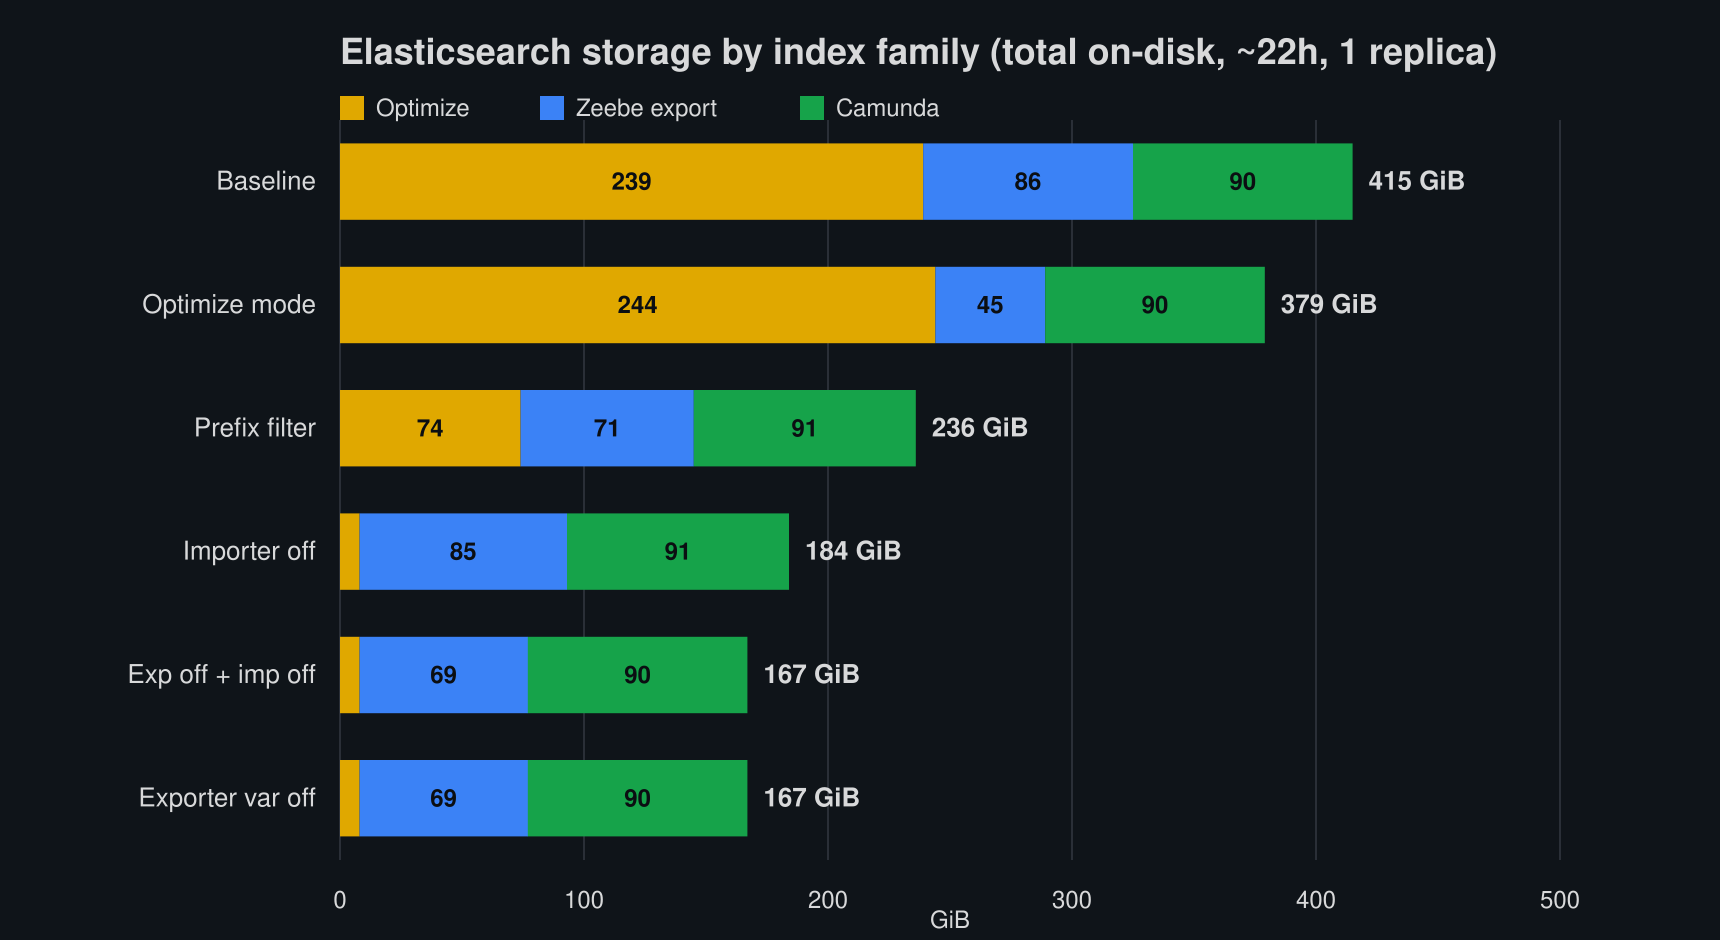
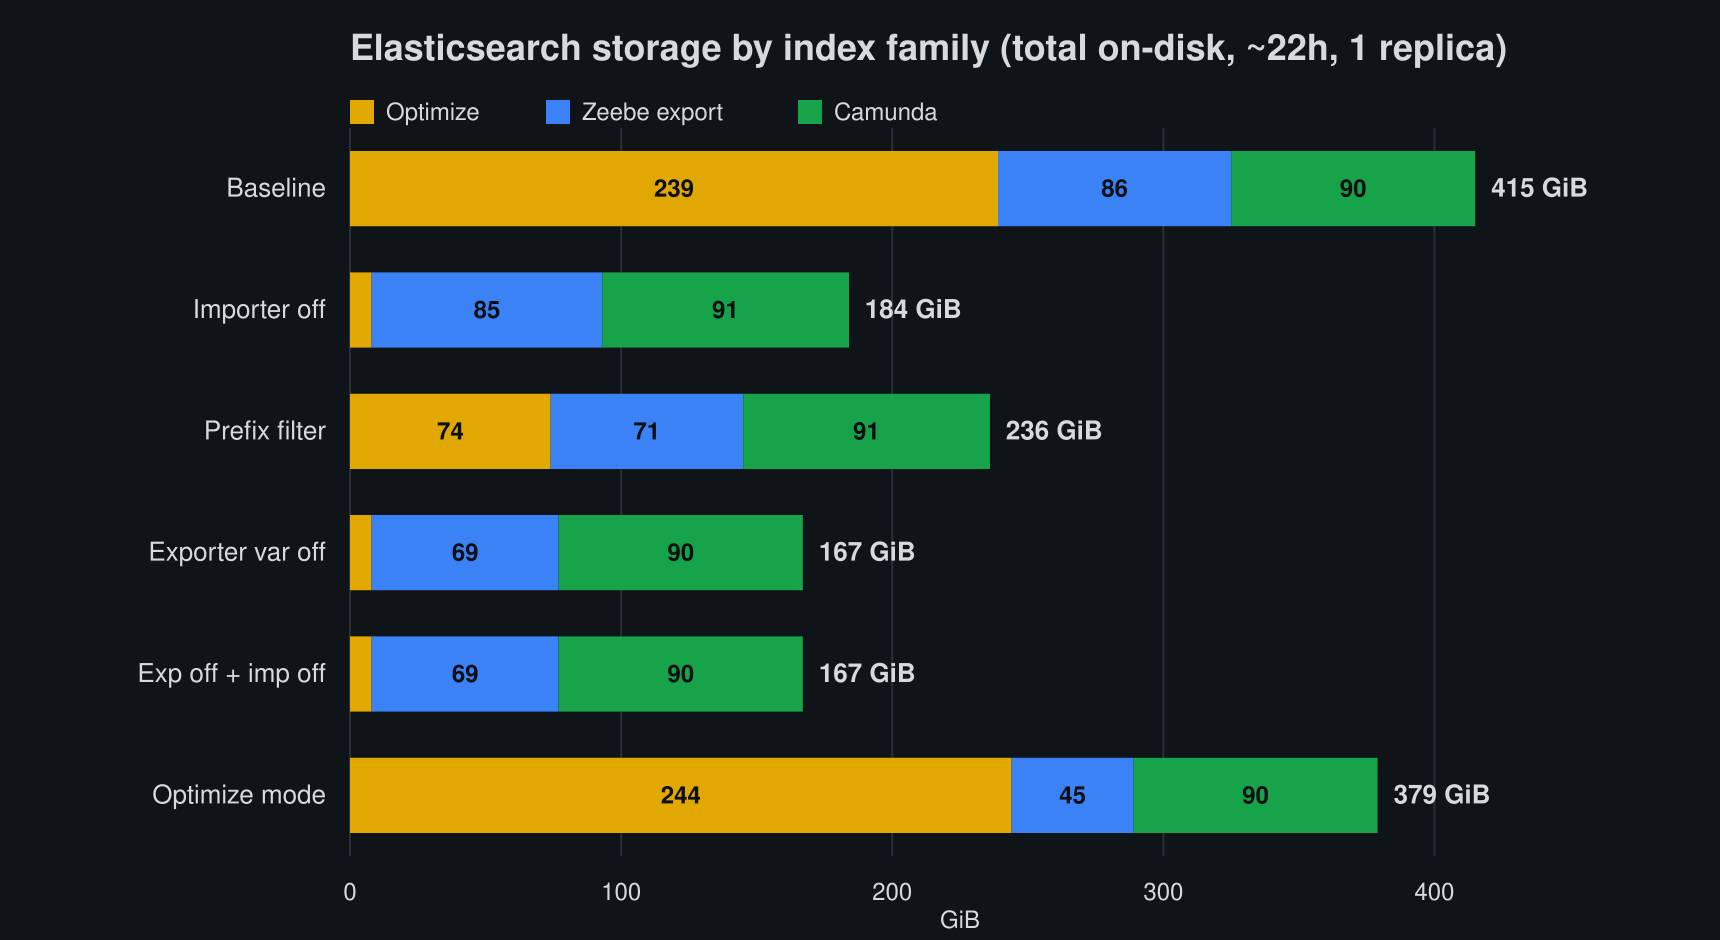
docs: drop em-dashes, unify table order with data-flow diagram, sync max throughput text
- Rewrite prose without em/en dashes (commas/colons/periods) per review.
- Reorder the storage and validation tables, and regenerate both rendered
  charts, to the data-flow diagram order (Baseline, Importer off, Prefix
  filter, Exporter var off, Exp off + imp off, Optimize mode) so every
  table and chart share one order.
- Sync the max-throughput prose to the screenshot-matched table
  (baseline 225, exporter-var-off 261, importer-off 240, optimize-mode 250).
- Add the realistic/max throughput Grafana screenshots; fix repeated
  'indicies' typo.

diff --git a/chaos-days/blog/2026-06-25-Impact-of-Optimize-Variable-Filtering/index.md b/chaos-days/blog/2026-06-25-Impact-of-Optimize-Variable-Filtering/index.md
@@ -14,18 +14,19 @@ authors:
 ---
 
 <!--
-Charts: storage-by-family.png and es-cpu-by-config.png are rendered from measured data (committed).
-Still TODO — capture from Grafana before publishing: real-general.png, max-general.png, max-throughput.png
-(dashboard overviews + throughput-over-time, which show run-to-run variance naturally).
+Charts: storage-by-family.png and es-cpu-by-config.png are rendered from measured data (committed,
+in the same order as the data-flow diagram). Throughput screenshots (realistic-throughput.png,
+max-throughput.png) added from Grafana. Still TODO before publishing: real-general.png, max-general.png
+dashboard overviews.
 -->
 
 # Chaos Day Summary
 
-In a [previous Chaos Day](https://camunda.github.io/zeebe-chaos/2026/06/10/Impact-of-Optimize-on-Camunda/) we measured what Optimize costs a cluster: at a realistic workload it drove **3.4x higher Elasticsearch (ES) CPU** and **~4x more ES disk** than running without it. That post ended with an open question — *can variable handling be tuned to reduce the impact?* This Chaos Day answers it.
+In a [previous Chaos Day](https://camunda.github.io/zeebe-chaos/2026/06/10/Impact-of-Optimize-on-Camunda/) we measured what Optimize costs a cluster: at a realistic workload it drove **3.4x higher Elasticsearch (ES) CPU** and **~4x more ES disk** than running without it. That post ended with an open question: *can variable handling be tuned to reduce the impact?* This Chaos Day answers it.
 
-We ran **twelve** load tests on Camunda 8.9.9 — six variable-filtering configurations, each at both a **realistic** and a **max** workload — and compared throughput, CPU, memory, and ES disk across all of them. All twelve started together and ran in parallel on identical infrastructure and the same Helm chart, each started fresh with an empty Elasticsearch, so their footprints are directly comparable.
+We ran **twelve** load tests on Camunda 8.9.9, six variable-filtering configurations, each at both a **realistic** and a **max** workload, and compared throughput, CPU, memory, and ES disk across all of them. All twelve started together and ran in parallel on identical infrastructure and the same Helm chart, each started fresh with an empty Elasticsearch, so their footprints are directly comparable.
 
-**TL;DR;** Keeping variables out of Optimize is the big lever. Disabling variable export (`index.variable=false`) cuts **total Elasticsearch storage ~60%** and **ES CPU ~65%** at a realistic load, and recovers **~15–25% throughput** at max load — enough to give back essentially all the throughput Optimize was shown to cost in the [previous Chaos Day](https://camunda.github.io/zeebe-chaos/2026/06/10/Impact-of-Optimize-on-Camunda/), while keeping Optimize running. The surprising part: **Optimize stores a variable ~14× more expensively than the raw Zeebe export does** (≈29× for high-cardinality string variables), so the cost lives almost entirely in Optimize's imported indices — not in the export. And because in Camunda 8.9 the Elasticsearch exporter feeds **only Optimize**, this costs you Optimize variable analytics *only* — Operate and Tasklist (served by the Camunda Exporter) keep their variables untouched.
+**TL;DR;** Keeping variables out of Optimize is the big lever. Disabling variable export (`index.variable=false`) cuts **total Elasticsearch storage ~60%** and **ES CPU ~65%** at a realistic load, and recovers **~15-20% throughput** at max load. That is enough to give back essentially all the throughput Optimize was shown to cost in the [previous Chaos Day](https://camunda.github.io/zeebe-chaos/2026/06/10/Impact-of-Optimize-on-Camunda/), while keeping Optimize running. The surprising part: **Optimize stores a variable ~14x more expensively than the raw Zeebe export does** (≈29x for high-cardinality string variables), so the cost lives almost entirely in Optimize's imported indices, not in the export. And because in Camunda 8.9 the Elasticsearch exporter feeds **only Optimize**, this costs you Optimize variable analytics *only*: Operate and Tasklist (served by the Camunda Exporter) keep their variables untouched.
 
 <!--truncate-->
 
@@ -33,7 +34,7 @@ We ran **twelve** load tests on Camunda 8.9.9 — six variable-filtering configu
 
 All twelve clusters ran in parallel on the same benchmark infrastructure with `orchestration-tag=8.9.9`, the same `camunda-platform-8.9` Helm chart (pinned to a single chart revision so index/replica settings are identical), and Optimize enabled everywhere. Each cluster started with an empty Elasticsearch so disk figures reflect only this run's accumulation, and all were started together so equal-age comparisons are valid.
 
-All disk figures below are **total store size (primary + replica)** as reported by `_cat/indices`, which equals the real on-disk footprint and matches the cluster's filesystem-used metric. The benchmark runs **1 replica**, so total ≈ 2× the primary-only figure; ratios are identical either way.
+All disk figures below are **total store size (primary + replica)** as reported by `_cat/indices`, which equals the real on-disk footprint and matches the cluster's filesystem-used metric. The benchmark runs **1 replica**, so total ≈ 2x the primary-only figure; ratios are identical either way.
 
 ### Configurations tested
 
@@ -43,27 +44,27 @@ Each configuration changes only how process **variables** are exported to Elasti
 
 | Name | What it changes | Key setting |
 |---|---|---|
-| Baseline | Default — all variables exported and imported | _(none)_ |
+| Baseline | Default, all variables exported and imported | _(none)_ |
 | Importer off | Optimize skips importing variables (still exported to ES) | `CAMUNDA_OPTIMIZE_ZEEBE_VARIABLE_IMPORT_ENABLED=false` |
 | Prefix filter | Only variables named `customer*` are exported | `zeebe.broker.exporters.elasticsearch.args.index.variableNameInclusionStartWith[0]=customer` |
 | Exporter variable off | No variable records exported at all | `zeebe.broker.exporters.elasticsearch.args.index.variable=false` |
 | Exporter off + importer off | Both of the above (belt-and-suspenders) | `index.variable=false` + `VARIABLE_IMPORT_ENABLED=false` |
 | Optimize mode | Exporter writes only what Optimize needs | `zeebe.broker.exporters.elasticsearch.args.index.optimizeModeEnabled=true` |
 
-**A note on the 8.9 architecture, because it shapes every result:** the Elasticsearch exporter being tuned here feeds **only Optimize** (plus any custom data-ingestion pipeline a customer wires up). **Operate and Tasklist get their data from the Camunda Exporter** — a separate path. So all of these levers affect Optimize alone; Operate and Tasklist keep full variable data regardless. We confirm this empirically below.
+**A note on the 8.9 architecture, because it shapes every result:** the Elasticsearch exporter being tuned here feeds **only Optimize** (plus any custom data-ingestion pipeline a customer wires up). **Operate and Tasklist get their data from the Camunda Exporter**, a separate path. So all of these levers affect Optimize alone; Operate and Tasklist keep full variable data regardless. We confirm this empirically below.
 
 Each configuration was run at two workloads, mirroring the previous post:
-- **realistic** — a complex process model at a sustainable production rate (~1 PI/s), each instance carrying multiple tasks, sub-processes, and variables; representative of real customer workloads.
-- **max** — driven at 300 PI/s to push the engine to its throughput ceiling and surface backpressure.
+- **realistic**: a complex process model at a sustainable production rate (~1 PI/s), each instance carrying multiple tasks, sub-processes, and variables; representative of real customer workloads.
+- **max**: driven at 300 PI/s to push the engine to its throughput ceiling and surface backpressure.
 
 The two workloads use **different variable payloads**, which matters for the prefix filter:
 
-- the **realistic** payload has 15 named variables, including three `customer`-prefixed ones (`customer`, `customerId`, `customer_claim_frequency`) alongside `disputeDetails`, `fraud_score_result`, and others — so the `customer` prefix filter keeps a meaningful subset.
-- the **max** payload uses generic names (`var1`…`var14`, `businessKey`) with no `customer`-prefixed variables — so the `customer` prefix filter matches nothing and behaves identically to disabling variable export. The prefix-filter result is therefore **not** comparable across the two workloads; at max load it is effectively a second "exporter variable off" data point.
+- the **realistic** payload has 15 named variables, including three `customer`-prefixed ones (`customer`, `customerId`, `customer_claim_frequency`) alongside `disputeDetails`, `fraud_score_result`, and others, so the `customer` prefix filter keeps a meaningful subset.
+- the **max** payload uses generic names (`var1`…`var14`, `businessKey`) with no `customer`-prefixed variables, so the `customer` prefix filter matches nothing and behaves identically to disabling variable export. The prefix-filter result is therefore **not** comparable across the two workloads; at max load it is effectively a second "exporter variable off" data point.
 
 ### Validating the configuration at the data level
 
-Before trusting the resource numbers, we confirmed that each configuration actually does what it claims, this means that the data landing in Elasticsearch reflects the filter. A terms aggregation on the Zeebe variable record index shows which variable names reached the zeebe-record ES indicies:
+Before trusting the resource numbers, we confirmed that each configuration actually does what it claims, this means that the data landing in Elasticsearch reflects the filter. A terms aggregation on the Zeebe variable record index shows which variable names reached the `zeebe-record` ES indices:
 
 ```bash
 curl -s -H 'Content-Type: application/json' \
@@ -81,13 +82,13 @@ curl -s -H 'Content-Type: application/json' \
 | Configuration | Total Docs in `zeebe-record_variable.*` | `disputeDetails` | `customer` |
 |---|---|---|---|
 | Baseline | 11.4M | 16,001 | 1,615,967 |
-| Optimize mode | 11.5M | 16,114 | 1,627,390 |
+| Importer off | 11.5M | 16,164 | 1,632,452 |
 | Prefix filter (`customer`) | 1.67M | 0 | 1,637,615 |
 | Exporter variable off | 0 | 0 | 0 |
 | Exporter off + importer off | 0 | 0 | 0 |
-| Importer off | 11.5M | 16,164 | 1,632,452 |
+| Optimize mode | 11.5M | 16,114 | 1,627,390 |
 
-This confirms the filters at the data level: **exporter variable off** writes no variable records; the **prefix filter** drops every non-`customer` variable (like `disputeDetails`= 0) while keeping `customer*`. The **importer off** / **optimize mode** leave the full variable stream in the exported indicies (their effect is downstream, in Optimize's own indices).
+This confirms the filters at the data level: **exporter variable off** writes no variable records; the **prefix filter** drops every non-`customer` variable (`disputeDetails` = 0) while keeping `customer*`. The **importer off** / **optimize mode** leave the full variable stream in the exported indices (their effect is downstream, in Optimize's own indices).
 
 ### Expected
 
@@ -104,35 +105,35 @@ Open questions have been: how much does each actually save, whether disabling on
 ![Throughput realistic scenario](realistic-throughput.png)
 
 
-Breaking total ES storage into three families makes the picture clear — **Optimize** (`optimize-*`, the ES exporter indices only consumer), **Zeebe export** (`zeebe-record*`, the raw record exporter output), and **Camunda** (`operate-*` + `tasklist-*` + `camunda-*`, written by the independent Camunda Exporter):
+Breaking total ES storage into three families makes the picture clear: **Optimize** (`optimize-*`, the ES exporter indices' only consumer), **Zeebe export** (`zeebe-record*`, the raw record exporter output), and **Camunda** (`operate-*` + `tasklist-*` + `camunda-*`, written by the independent Camunda Exporter):
 
 ![Elasticsearch storage by index family, per configuration](storage-by-family.png)
 
 | Configuration | Optimize | Zeebe export | Camunda | **Total** | vs base |
 |---|---|---|---|---|---|
-| Baseline | 239 | 86 | 90 | **415 GiB** | — |
-| Optimize mode | 244 | 45 | 90 | **379 GiB** | −9% |
-| Prefix filter | 74 | 71 | 91 | **236 GiB** | −43% |
-| Importer off | 8 | 85 | 90 | **184 GiB** | −56% |
-| Exporter variable off | 8 | 69 | 90 | **167 GiB** | −60% |
-| Exporter off + importer off | 8 | 69 | 90 | **167 GiB** | −60% |
+| Baseline | 239 | 86 | 90 | **415 GiB** | 0% |
+| Importer off | 8 | 85 | 91 | **184 GiB** | -56% |
+| Prefix filter | 74 | 71 | 91 | **236 GiB** | -43% |
+| Exporter variable off | 8 | 69 | 90 | **167 GiB** | -60% |
+| Exporter off + importer off | 8 | 69 | 90 | **167 GiB** | -60% |
+| Optimize mode | 244 | 45 | 90 | **379 GiB** | -9% |
 
 Three things stand out:
 
-- **The Optimize index is the whole story.** It is ~58% of baseline storage, and removing variables (by import *or* export) collapses it from 239 GiB to ~8 GiB — a **97% cut**. Everything else barely moves.
+- **The Optimize index is the whole story.** It is ~58% of baseline storage, and removing variables (by import *or* export) collapses it from 239 GiB to ~8 GiB, a **97% cut**. Everything else barely moves.
 - **The Camunda bucket is flat at ~90 GiB across every configuration**, including `exporter variable off`. That is the proof of the architecture note above: Operate/Tasklist variables come from the Camunda Exporter and are completely untouched by these levers.
 - **Importer-off and exporter-off are nearly identical** (184 vs 167 GiB). Both kill the Optimize cost; the ~17 GiB difference is just the variable records that importer-off leaves sitting in the Zeebe exported indices.
 
-##### Optimize stores variables 14–29× more expensively than the export
+##### Optimize stores variables 14-29x more expensively than the export
 
 The most interesting result is the *amplification*. The same variables that occupy a modest slice of the raw export balloon in Optimize's nested representation:
 
-- **All variables:** Removing them shrinks Optimize by **231 GiB** (239 -> 8) but removes only **~17 GiB** of Zeebe variable records. This means we have an **~14× amplification** (231 ÷ 17) of the variable footprint in Optimize vs the raw export.
-- **`customer*` string variables:** The prefix filter removes most variables only adds `customer*` variables. Thus are **+2.3 GiB** in the Zeebe exported indices, but **+66 GiB** in Optimize (74 vs 8). This is an amplification of **~29×**.
+- **All variables:** Removing them shrinks Optimize by **231 GiB** (239 → 8) but removes only **~17 GiB** of Zeebe variable records. This means we have an **~14x amplification** (231 ÷ 17) of the variable footprint in Optimize vs the raw export.
+- **`customer*` string variables:** The prefix filter keeps only `customer*` variables: that is **+2.3 GiB** in the Zeebe exported indices, but **+66 GiB** in Optimize (74 vs 8), an amplification of **~29x**.
 
 In other words, the lever that matters is keeping variables *out of Optimize*; trimming the export alone barely dents the total.
 
-The Optimize-mode result, leaves the Optimize index essentially unchanged (244 vs 239 GiB) but **halves the Zeebe export** (86 → 45 GiB). Those ~41 GiB it strips are *non-variable* records (jobs, etc.) that Optimize never imports, pure dead weight in an Optimize-only exporting, but irrelevant to the Optimize index itself. These should be considered in general by default, as this has no negative impact on Optimize features.
+The Optimize-mode result leaves the Optimize index essentially unchanged (244 vs 239 GiB) but **halves the Zeebe export** (86 → 45 GiB). Those ~41 GiB it strips are *non-variable* records (jobs, etc.) that Optimize never imports: pure dead weight in an Optimize-only export, but irrelevant to the Optimize index itself. This is worth enabling by default, since it has no negative impact on Optimize features.
 
 #### Realistic workload: CPU and memory
 
@@ -145,26 +146,26 @@ ES CPU tracks the storage story almost exactly (the chart above shows both workl
 | ES CPU | 6.6 | 2.3 | 4.6 | 2.4 | 2.4 | 5.0 |
 | Camunda CPU | ~4.5 | ~4.2 | ~5.5 | ~3.9 | ~4.9 | ~4.4 |
 
-Removing variables from Optimize cuts ES CPU by ~65% (6.6 → ~2.4 cores). **Camunda broker CPU is unaffected** — it sits around 4–5 cores regardless. Variable filtering is purely an Elasticsearch-side lift. ES (and total) memory was likewise flat (~13–15 GiB ES) across all six, likely as the JVMs simply preallocate necessary memory.
+Removing variables from Optimize cuts ES CPU by ~65% (6.6 → ~2.4 cores). **Camunda broker CPU is unaffected**: it sits around 4-5 cores regardless. Variable filtering is purely an Elasticsearch-side lever. ES (and total) memory was likewise flat (~13-15 GiB ES) across all six, likely because the JVMs simply preallocate the memory.
 
 #### Max workload: throughput and backpressure
 
 *At 300 PI/s the clusters are throughput-constrained, so the question becomes which configuration sustains the most completed instances by freeing Elasticsearch write capacity.*
 
-![Throughput comparison — max scenario](max-throughput.png)
+![Throughput comparison, max scenario](max-throughput.png)
 
 | Metric | Baseline | Importer off | Prefix filter | Exporter var off | Exp off + imp off | Optimize mode |
 |---|---|---|---|---|---|---|
 | Completed PI/s | 225 | 240 | 249 | 261 | 239 | 250 |
 | Dropped req/s (backpressure) | 416 | 374 | 345 | 267 | 379 | 318 |
 
-The robust signal: **baseline is consistently the worst** (~205–224 PI/s with the highest backpressure across every sample), and configurations that keep variables out of the export sustain **~15–25% more throughput**. The fine ranking *among* the variable-reduced configs sits inside run-to-run / noisy-neighbour variance (±~20 PI/s), so we don't read precise positions into it — e.g. Optimize mode read 253 PI/s here but 207 in a later sample, so we make no throughput claim for it.
+The robust signal: **baseline is consistently the worst** (~205-225 PI/s with the highest backpressure across every sample), and configurations that keep variables out of the export sustain **~15-20% more throughput**. The fine ranking *among* the variable-reduced configs sits inside run-to-run / noisy-neighbour variance (±~20 PI/s), so we don't read precise positions into it. For example, Optimize mode read 250 PI/s in this sample but 207 in another, so we make no throughput claim for it.
 
-One subtlety worth calling out: at max load, **only export-side removal recovers throughput**. Importer-off barely helps (235 vs 222) — it leaves the export write load unchanged, and at max load the Zeebe→Elasticsearch write path is the bottleneck, not Optimize's downstream import.
+One subtlety worth calling out: at max load, **only export-side removal recovers throughput**. Importer-off barely helps (240 vs 225) because it leaves the export write load unchanged, and at max load the Zeebe-to-Elasticsearch write path is the bottleneck, not Optimize's downstream import.
 
-**This gives back the throughput Optimize costs.** The [previous Chaos Day](https://camunda.github.io/zeebe-chaos/2026/06/10/Impact-of-Optimize-on-Camunda/) measured that penalty by toggling Optimize on and off at max load: **214 PI/s with Optimize vs 274 without — a 22% loss**. Here, baseline (Optimize on, all variables) sits at ~222 PI/s — matching that "with Optimize" figure — and **exporter-var-off reaches ~266, back at the no-Optimize level** (within run-to-run noise). The striking part: var-off keeps Optimize *enabled* and still importing process data, yet recovers nearly all the lost throughput — so Optimize's max-load penalty was almost entirely **variable handling**, not Optimize itself. It also confirms the previous post's proposed mechanism — the extra ES write pressure that made the exporter lag *was* the variable data.
+**This gives back the throughput Optimize costs.** The [previous Chaos Day](https://camunda.github.io/zeebe-chaos/2026/06/10/Impact-of-Optimize-on-Camunda/) measured that penalty by toggling Optimize on and off at max load: **214 PI/s with Optimize vs 274 without, a 22% loss**. Here, baseline (Optimize on, all variables) sits at ~225 PI/s, matching that "with Optimize" figure, and **exporter-var-off reaches ~261, back at the no-Optimize level** (within run-to-run noise). The striking part: var-off keeps Optimize *enabled* and still importing process data, yet recovers nearly all the lost throughput. So Optimize's max-load penalty was almost entirely **variable handling**, not Optimize itself. It also confirms the previous post's proposed mechanism: the extra ES write pressure that made the exporter lag *was* the variable data.
 
-On resources, the ES CPU chart above tells the max story too: the variable-reduced configurations run **cheaper** (~7–9 cores) than baseline and Optimize mode (~13 cores) — and they do so while sustaining *higher* throughput, so the lever wins on both axes at once.
+On resources, the ES CPU chart above tells the max story too: the variable-reduced configurations run **cheaper** (~7-9 cores) than baseline and Optimize mode (~13 cores), and they do so while sustaining *higher* throughput, so the lever wins on both axes at once.
 
 > Note:
 >
@@ -172,24 +173,23 @@ On resources, the ES CPU chart above tells the max story too: the variable-reduc
 
 ## Configuration Guide / Recommendations
 
-For each knob: what it controls, the measured effect, and when to use it. (Storage figures are total on-disk at a realistic load; all of them touch **Optimize only** — Operate and Tasklist keep their variables.)
+For each knob: what it controls, the measured effect, and when to use it. (Storage figures are total on-disk at a realistic load; all of them touch **Optimize only**, Operate and Tasklist keep their variables.)
 
-- **Optimize mode** (`optimizeModeEnabled=true`) — *recommended default.* It is *not* a variable-storage lever (Optimize index unchanged, −9% total), but it strips ~41 GiB of zeebe records the Optimize importer doesn't read. This doesn't impact any Optimize feature, useful when there is no further value (usage) of other zeebe record indicies by other custom applications.
-- **Exporter variable off** (`index.variable=false`) — *recommended when no variable analytics are needed* Variables are never written to the Optimize-facing exported indicies. Total ES storage −60%, Optimize index −97%, ES CPU −65%, and ~15–25% more throughput at max with the lowest backpressure. Trade-off: Optimize loses variable-level analytics. Use whenever Optimize doesn't need variable data.
-- **Importer off** (`CAMUNDA_OPTIMIZE_ZEEBE_VARIABLE_IMPORT_ENABLED=false`) — same effect on the Optimize index (−97%), slightly less total saving (−56%, the export keeps the variable records), and it does **not** recover max throughput, as we still export the variables. Use when you still want the raw variable records in the export (e.g. a custom pipeline) but want to spare Optimize the storage.
-- **Exporter off + importer off** — *recommended when no variable analytics are needed* belt-and-suspenders; behaves like exporter-off (−60%).  When we have no exported records for variables, we no longer need to check for variables on the Optimize importing side.
-- **Prefix filter** (`variableNameInclusionStartWith`) — a tunable middle ground (−43% total, −72% Optimize index here), scaling with how much of the payload matches. Use when a bounded, named set (e.g. `customer*`) carries the analytics value and the rest is noise. Can be a helpful tool for customers who want to keep some variables in Optimize but not all. Note that the prefix filter is on *export-side*.
+- **Optimize mode** (`optimizeModeEnabled=true`): *recommended default.* It is *not* a variable-storage lever (Optimize index unchanged, -9% total), but it strips ~41 GiB of Zeebe records the Optimize importer doesn't read. This doesn't impact any Optimize feature, and is useful when no other custom application consumes the rest of the Zeebe record indices.
+- **Exporter variable off** (`index.variable=false`): *recommended when no variable analytics are needed.* Variables are never written to the Optimize-facing exported indices. Total ES storage -60%, Optimize index -97%, ES CPU -65%, and ~15-20% more throughput at max with the lowest backpressure. Trade-off: Optimize loses variable-level analytics. Use whenever Optimize doesn't need variable data.
+- **Importer off** (`CAMUNDA_OPTIMIZE_ZEEBE_VARIABLE_IMPORT_ENABLED=false`): same effect on the Optimize index (-97%), slightly less total saving (-56%, the export keeps the variable records), and it does **not** recover max throughput, since we still export the variables. Use when you still want the raw variable records in the export (e.g. a custom pipeline) but want to spare Optimize the storage.
+- **Exporter off + importer off**: *recommended when no variable analytics are needed.* Belt-and-suspenders; behaves like exporter-off (-60%). With no exported variable records, there is nothing for the Optimize importer to check on its side.
+- **Prefix filter** (`variableNameInclusionStartWith`): a tunable middle ground (-43% total, -72% Optimize index here), scaling with how much of the payload matches. Use when a bounded, named set (e.g. `customer*`) carries the analytics value and the rest is noise. It is a helpful option for customers who want to keep some variables in Optimize but not all. Note that the prefix filter is applied *export-side*.
 
 
 ### What We Learned
 
-- **The Optimize index is where variables cost you** — ~58% of baseline ES storage. Removing variables from import or export cuts it ~97% (239 → 8 GiB) and ES CPU ~65%, with even throughput improvements for maximum load.
-- **Optimize amplifies variable storage ~14× over the raw export** (≈29× for high-cardinality string variables) — so trimming the export helps; the variables must be kept out of Optimize.
+- **The Optimize index is where variables cost you.** It is ~58% of baseline ES storage. Removing variables from import or export cuts it ~97% (239 → 8 GiB) and ES CPU ~65%, with throughput improvements at maximum load on top.
+- **Optimize amplifies variable storage ~14x over the raw export** (≈29x for high-cardinality string variables), so trimming the export alone barely helps; the variables must be kept out of Optimize.
 - **Importer-off ≈ exporter-off for storage**, but only **export-side** removal recovers throughput at max load (the exporter write path is the max-load bottleneck).
-- **Exporter-var-off gives back the throughput Optimize costs.** It reaches ~266 PI/s vs baseline ~222 — back at the previous post's no-Optimize level (274), while Optimize stays enabled. Optimize's ~22% max-load penalty was almost entirely variable handling.
-
-- **Optimize mode allows to reduce noise** — it shrinks the exported indices (jobs etc.) to the most important subset, without impacting Optimize features. It is a good default for customers who don't need the full Zeebe record export.
-- **Tested configurations only affect Optimize.** The Camunda Exporter keeps Operate/Tasklist variables intact (~90 GiB, flat across all configs). Camunda broker CPU and memory are unaffected — this is an Elasticsearch-side lever.
+- **Exporter-var-off gives back the throughput Optimize costs.** It reaches ~261 PI/s vs baseline ~225, back at the previous post's no-Optimize level (274), while Optimize stays enabled. Optimize's ~22% max-load penalty was almost entirely variable handling.
+- **Optimize mode reduces noise.** It shrinks the exported indices (jobs etc.) to the subset Optimize needs, without impacting Optimize features. It is a good default for customers who don't need the full Zeebe record export.
+- **Tested configurations only affect Optimize.** The Camunda Exporter keeps Operate/Tasklist variables intact (~90 GiB, flat across all configs). Camunda broker CPU and memory are unaffected; this is an Elasticsearch-side lever.
 
 ### Possible Improvements / Recommendations
 